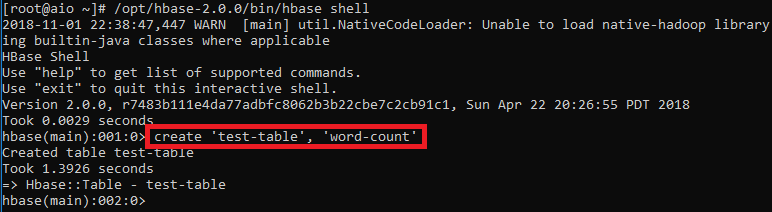
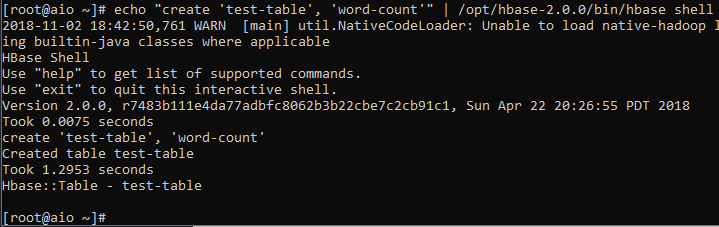
Update

Changed region(s): [[0.0, 0.0, 1.0, 1.0], [0.5814, 0.0, 0.612, 0.0283]]

diff --git a/Dev_Env_setup/README.md b/Dev_Env_setup/README.md
@@ -1,7 +1,6 @@
 # Spark Local Development Environment Setup with Java and Maven
 
-TMTOWTDI: Instructions may vary. This tutorial is based on following environment:
-
+> TMTOWTDI: Instructions may vary. This tutorial is based on following environment:
 * Windows 10 1803
 * JDK 8u112
 * IntelliJ IDEA 2018.2.4
@@ -105,7 +104,7 @@ Click on the download link that matches your OS
 
 	The Install app displays the Introduction window.
 
-	Note: In some cases, a Destination Select window appears. This is a bug, as there is only one option available. If you see this window, select Install for all users of this computer to enable the Continue button.
+	> NOTE: In some cases, a Destination Select window appears. This is a bug, as there is only one option available. If you see this window, select Install for all users of this computer to enable the Continue button.
 
 3. Click Continue.
 
@@ -121,7 +120,7 @@ Click on the download link that matches your OS
 
 #### Linux
 
-1. unpack the tarball
+1. Extract the tarball
 ``` bash
 tar zxf jdk-8u112-linux-{version}.tar.gz -C /opt
 ```
@@ -185,7 +184,7 @@ IntelliJ should make a new project with a default directory structure.
 
 ### 2.3 Change IntelliJ Settings
 
-OPTIONAL: To use different Maven version, go to File > Settings > Build, Execution, Deployment > Build Tools > Maven. Change the Maven home directory.
+> OPTIONAL: To use different Maven version, go to File > Settings > Build, Execution, Deployment > Build Tools > Maven. Change the Maven home directory.
 
 ![Maven](images/2.1.PNG)
 
@@ -217,11 +216,11 @@ Select the folder `src/main/java` in the project directory. Right-click on folde
 
 For demo purpose, copy everything from https://github.com/ccbt87/sample-KafkaSparkHBase/blob/master/src/main/java/KafkaSparkHBase.java to it.
 
-NOTE: If a different hostname was given to the container in the next section, change the hostname in the code accordingly.
+> NOTE: If a different hostname was given to the container in the next section, change the hostname in the code accordingly.
 
 ![Code](images/4.2.PNG)
 
-NOTE: Do not worry about the red lines for now.
+> NOTE: Do not worry about the red lines for now.
 
 ### 2.6 Create Fat Jar
 
@@ -229,7 +228,7 @@ Go to Maven Projects > {Project Name} > Lifecycle. Double click on package. This
 
 ![JAR](images/6.1.PNG)
 
-NOTE: The red lines should disappear after you close and reopen the IntelliJ IDEA.
+> NOTE: The red lines should disappear after you close and reopen the IntelliJ IDEA.
 
 ## 3. Docker Setup
 
@@ -247,7 +246,7 @@ NOTE: The red lines should disappear after you close and reopen the IntelliJ IDE
 * Select the corresponding Linux distribution in the `Linux` dropdown menu on the left side in the link https://docs.docker.com/install/,
 * Follow the instructions in the webpage to install Docker for Linux
 
-NOTE: For previous OS versions, use Docker Toolbox (legacy): https://docs.docker.com/toolbox/overview/
+> NOTE: For previous OS versions, use Docker Toolbox (legacy): https://docs.docker.com/toolbox/overview/
 
 ### 3.2 Memory Configuration
 
@@ -281,7 +280,7 @@ Open a console. Pull the Docker image https://hub.docker.com/r/ccbt87/aio/
 ```
 docker pull ccbt87/aio
 ```
-Refer to Appendix A for the details about this image.
+> Refer to Appendix A for the details about this image.
 
 ### 3.4 Run the Image to Create Docker Container
 
@@ -289,7 +288,7 @@ Use docker run command to run the image. Specify the hostname and the name for t
 
 #### Windows or Mac
 
-NOTE: Docker for Mac and Windows cannot route traffic to Linux containers. Use the following workaround:
+Docker for Mac and Windows cannot route traffic to Linux containers. Use the following workaround:
 * To connect to a container from the Mac or Windows, run the image using either one of the following commands and then use localhost:{port} to access the service in the container.
   * Use `-p` or `--publish` to publish ports on the container to specific ports on the host.
   ```
@@ -334,15 +333,12 @@ In the container shell, create a topic
 
 ### 4.2 Create HBase Table
 
-In the container shell, start the HBase shell
+In the container shell, send create command to HBase shell
 ```
-/opt/hbase-2.0.0/bin/hbase shell
+echo "create 'test-table', 'word-count'" | /opt/hbase-2.0.0/bin/hbase shell
 ```
 
-Create a table
-```
-create 'test-table', 'word-count'
-```
+> OPTIONAL: you can use the `init_hbase_table.sh` to create or drop the HBase table. Refer to Appendix A for the usage
 
 ![HBase](images/7.2.PNG)
 
@@ -379,14 +375,9 @@ In the container shell in which the Spark job is running, you should see the wor
 
 ### 4.5 Check Results in HBase
 
-In the container shell, start the HBase shell
+In the container shell, send scan command to HBase shell
 ```
-/opt/hbase-2.0.0/bin/hbase shell
-```
-
-Scan the table
-```
-scan 'test-table'
+echo "scan 'test-table'" | /opt/hbase-2.0.0/bin/hbase shell
 ```
 
 You should see the word counts:
@@ -446,6 +437,21 @@ Scripts under `/root`:
 
 `stop-all.sh` is used for stop all the components
 
+`init-hbase-table.sh` is used for create or drop HBase table
+
+	Supply no argument will first try to disable and drop the default table name `test-table`, and then create the same table name with the default column family `word-count`
+	```
+	./init-hbase-table.sh
+	```
+	Supply one argument will try to disable and drop the specified table name
+	```
+	./init-hbase-table.sh table_name
+	```
+	Supply two arguments will first try to disable and drop the specified table name, and then create the same table name with the column family
+	```
+	./init-hbase-table.sh table_name columnfamily_name
+	```
+
 ### Appendix B - Known Issues
 #### 1. HBase Master, HBase RegionServer, ZooKeeper, or Kafka Stop Working After Restart the Docker Container
 
@@ -473,6 +479,6 @@ None
 ```
 docker run --hostname aio --name aio --rm -it -p 2181:2181 -p 4040:4040 -p 6667:6667 -p 7077:7077 -p 8080:8080 -p 8081:8081 -p 8086:8086 -p 9042:9042 -p 9090:9090 -p 16000:16000 -p 16010:16010 -p 16020:16020 -p 16030:16030 -p 18080:18080 ccbt87/aio
 ```
-NOTE: With the `--rm` option Docker will remove the container when it exits. Make sure to save the data in the container if there is any.
+> NOTE: With the `--rm` option Docker will remove the container when it exits. Make sure to save the data in the container if there is any.
 
 #### 2. Port mapping won't persist if a container restarts? (Need confirmation)
